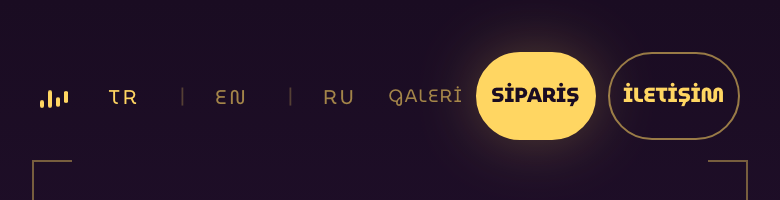
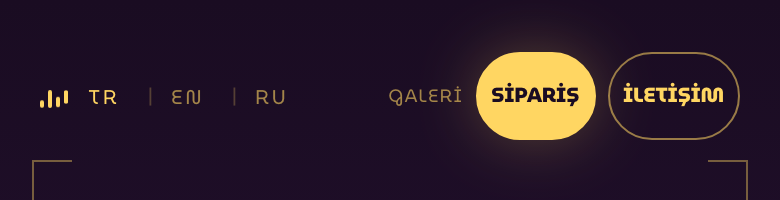
Üst bar: sağdan 20 px güvenlik payı (360 px'te 1 px kalmıştı)
NEDEN 1 PX KALIYORDU: dil anahtarının bağlantıları 360 px'te 36 px genişliğinde
kalıyordu, dolayısıyla sol grup 168 px tutuyor ve sağ grubu kenara itiyordu — iki grup
arasındaki boşluk 0'a iniyordu, sağ grup üst barın 20 px'lik kenar dolgusunu 19 px aşıyordu.

ASIL HATA ÖZGÜLLÜKTE: dar ekran kuralları (@820 min-width:30px, @400 min-width:26px)
temel '.lang a' kuralından ÖNCE geliyordu; eşit özgüllükte kaynak sırası kazandığı için
36 px uygulanıyordu. Seçici '.lang > span > a' yapıldı — sıradan bağımsız kazanıyor.
Ayrıca ≤400 px'te dil aralığı 0, ayırıcı kenar boşluğu 2 px, .navL aralığı 6 px.

ÖLÇÜM (üç genişlik × üç dil, dokuzunda da sağ pay 20 px, kenar dolgusu ihlali YOK):
  360: tr 274-340 · en 277-340 · ru 281-340
  390: tr 304-370 · en 307-370 · ru 311-370
  430: tr 329-410 · en 333-410 · ru 337-410

Dil bağlantıları dar ekranda 24 px genişliğe indi; görsel kutu küçüldü ama dokunma alanı
::before ile 44×44'te tutuldu (merkez, üst, alt ve sol yönde doğrulandı). Dikey hiza
bozulmadı: üç dilde de fark 0.0 px, aralıklar eşit.

tests/e2e/ustbar.mjs: 'çift taşırmıyor' kontrolü 'sağdan ≥12 px güvenlik payı'na çevrildi —
1 px payı geçiren eski kontrol artık gerilemeyi yakalar.

diff --git a/components/chrome/chrome.css b/components/chrome/chrome.css
@@ -251,7 +251,10 @@ html.lm .gnav:focus-visible {
   .navR {
     gap: 8px;
   }
-  .lang a {
+  /* ÖZGÜLLÜK NOTU: temel `.lang a` kuralı bu medya sorgusundan SONRA geldiği için
+     eşit özgüllükte kaynak sırası kazanıyordu (36 px uygulanıyordu, 30 değil).
+     `.lang > span > a` özgüllüğü artırır; sıra ne olursa olsun dar ekran kuralı geçerli. */
+  .lang > span > a {
     min-width: 30px;
     padding: 2px;
   }
@@ -284,10 +287,17 @@ html.lm .gnav:focus-visible {
     gap: 6px;
   }
   .lang {
-    gap: 2px;
+    gap: 0;
   }
-  .lang a {
-    min-width: 26px;
+  .lang i {
+    margin: 0 2px;
+  }
+  .navL {
+    gap: 6px;
+  }
+  .lang > span > a {
+    min-width: 24px;
+    padding: 2px 1px;
   }
 }
 
@@ -395,6 +405,18 @@ html.lm .bracket {
   color: var(--dim);
   text-decoration: none;
   padding: 2px 4px;
+  /* Dar ekranda görsel kutu 24×36'ya iniyor (yer açmak için). Dokunma alanı ::before ile
+     44×44'e çıkarılır: görsel küçülür ama parmakla vurulabilirlik korunur. */
+  position: relative;
+}
+.lang a::before {
+  content: "";
+  position: absolute;
+  left: 50%;
+  top: 50%;
+  width: max(100%, 44px);
+  height: 44px;
+  transform: translate(-50%, -50%);
 }
 .lang a[aria-current="page"] {
   color: var(--cream);
